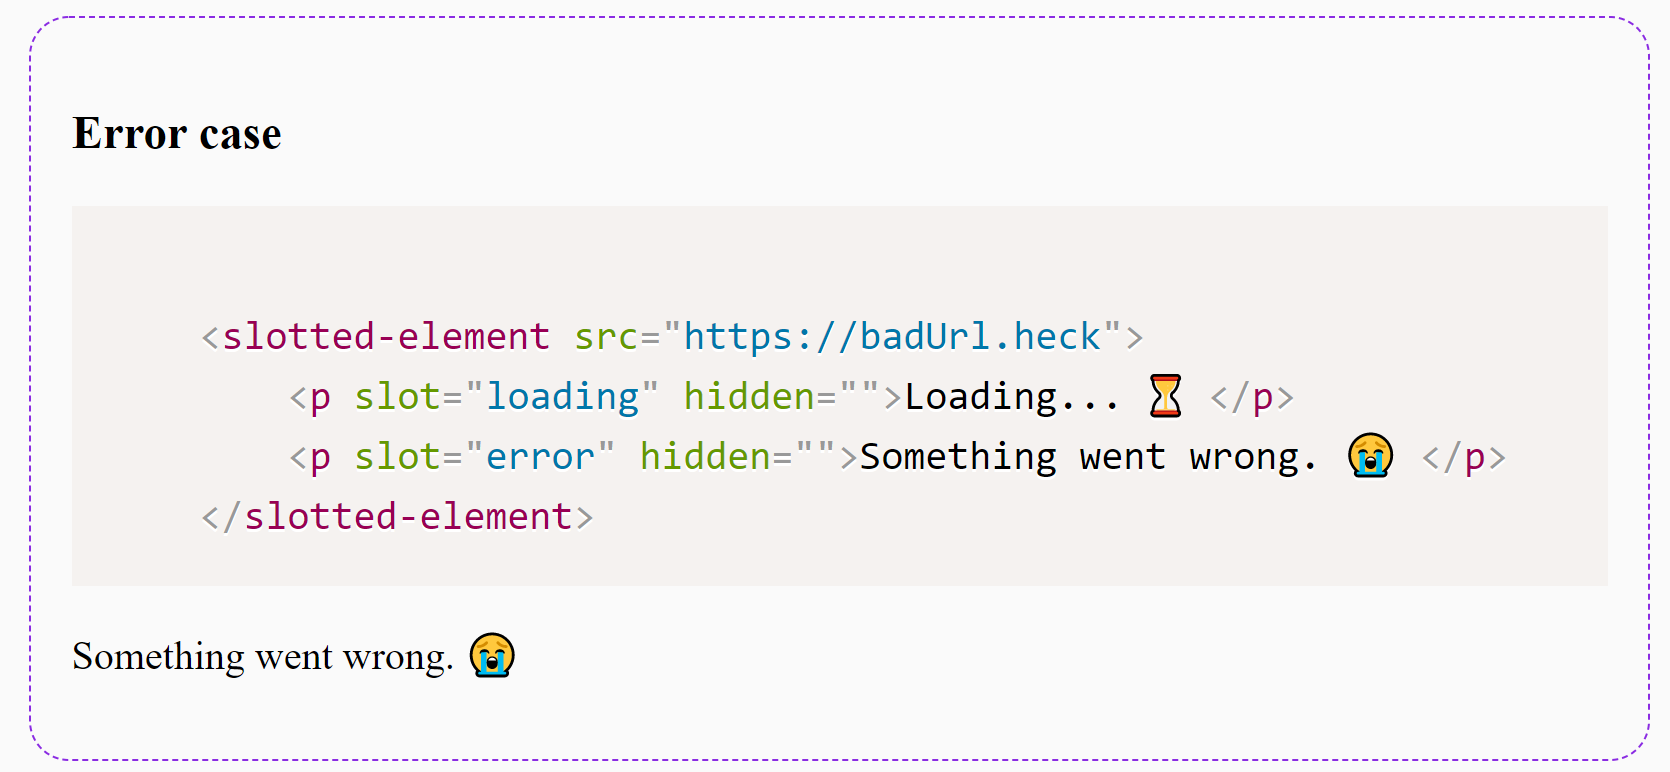
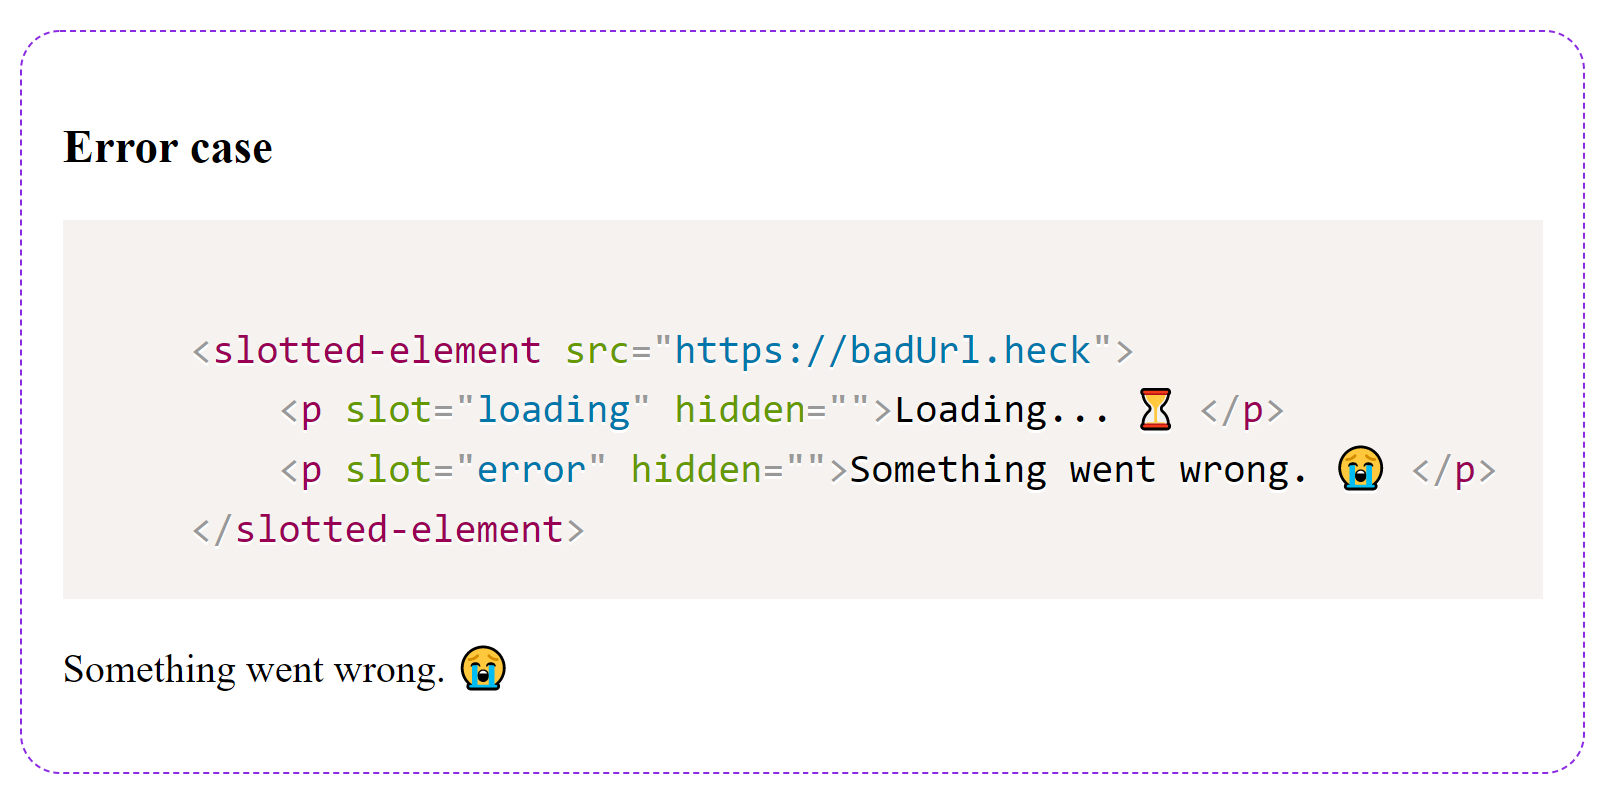
renamed to html-demo-element

diff --git a/html-demo-element.js b/html-demo-element.js
@@ -1,0 +1,28 @@
+import "https://unpkg.com/prismjs@1.23.0/components/prism-core.min.js";
+import "https://unpkg.com/prismjs@1.23.0/components/prism-markup.min.js";
+import "https://unpkg.com/prismjs@1.23.0/plugins/autoloader/prism-autoloader.min.js";
+
+var styles = `
+    @import "https://unpkg.com/prismjs@1.23.0/themes/prism.css";
+    demo-section{ display: block; border: blueviolet dashed 1px; border-radius: 1rem; padding: 1rem; margin: 1rem; }
+`
+
+const styleSheet = document.createElement("style")
+styleSheet.type = "text/css"
+styleSheet.innerText = styles
+document.head.appendChild(styleSheet);
+
+for( let el of document.querySelectorAll('demo-section') )
+    el.initialHTML = el.innerHTML;
+
+class
+HtmlDemoElement extends HTMLElement
+{
+    connectedCallback()
+    {   const  html = Prism.highlight( this.initialHTML, Prism.languages.html, 'html' )
+        , pre = document.createElement( 'div' )
+        pre.innerHTML = `<h3>${this.title||''}</h3><pre><code class="language-markup" >${html}</code></pre>`;
+        this.insertBefore( pre, this.firstChild );
+    }
+}
+window.customElements.define( 'html-demo-element', HtmlDemoElement);

diff --git a/README.md b/README.md
@@ -1,21 +1,24 @@
 # demo-element
-inserts syntax colored HTML in demo-element before actual dom
+inserts [prism JS syntax colored](https://prismjs.com/) HTML in demo-element before actual dom
 
 ## Sample
 The code
-<style type="text/css">
-.s0 { color: #e8bf6a;}
-.s1 { color: #bababa;}
-.s2 { color: #a5c261;}
-.s3 { color: #a9b7c6;}
-.s4 { color: #a9b7c6;}
-</style>
-<pre><span class="s0">&lt;demo-section </span><span class="s1">title</span><span class="s2">=&quot;Error case&quot;</span><span class="s0">&gt;</span>
-    <span class="s0">&lt;slotted-element </span><span class="s1">src</span><span class="s2">=&quot;https://badUrl.heck&quot;</span><span class="s0">&gt;</span>
-        <span class="s0">&lt;p </span><span class="s1">slot</span><span class="s2">=&quot;loading&quot; </span><span class="s1">hidden</span><span class="s0">&gt;</span><span class="s4">Loading... ⏳ </span><span class="s0">&lt;/p&gt;</span>
-        <span class="s0">&lt;p </span><span class="s1">slot</span><span class="s2">=&quot;error&quot; </span><span class="s1">hidden</span><span class="s0">&gt;</span><span class="s4">Something went wrong. 😭 </span><span class="s0">&lt;/p&gt;</span>
-    <span class="s0">&lt;/slotted-element&gt;</span>
-<span class="s0">&lt;/demo-section&gt;</span></pre>
+```html
+<html-demo-element title="Error case">
+    <slotted-element src="https://badUrl.heck">
+        <p slot="loading" hidden>Loading... ⏳ </p>
+        <p slot="error" hidden>Something went wrong. 😭 </p>
+    </slotted-element>
+</html-demo-element>
+
+<script type="module" src="import "https://unpkg.com/html-demo-element@1.0.0/html-demo-element.js"></script>
+<script type="module" src="../slotted-element.js"></script>
+```
 
 renders following content:
-<img src="screenshot.png" />
+![screenshot](screenshot.png?raw=true "Title")
+
+## use 
+Include the script BEFORE inner content is modified. I.e. immediately after HTML and before scripts with components.
+
+# 
